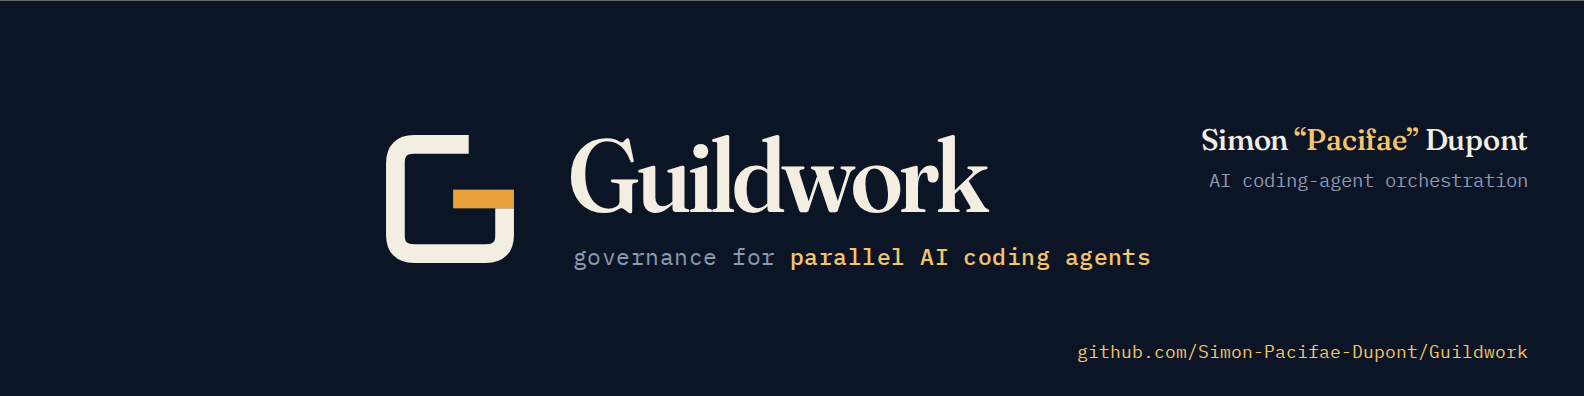
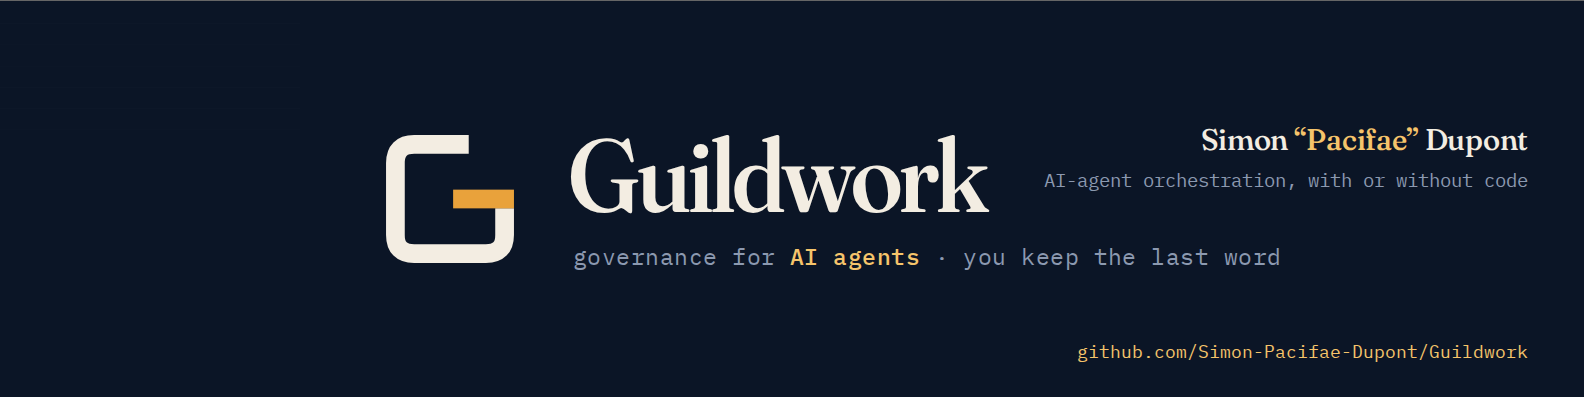
Brand: the baseline puts the human back as the subject

diff --git a/brand/brand-source.html b/brand/brand-source.html
@@ -104,26 +104,26 @@ body { margin: 0; background: #666; font-family: Inter, sans-serif; }
 
 <div id="lockup-dark" class="board lockup dark">
   <svg><use href="#mark"/></svg>
-  <div><p class="word">Guildwork</p><p class="tag">governance for parallel AI coding agents</p></div>
+  <div><p class="word">Guildwork</p><p class="tag">governance for AI agents · you keep the last word</p></div>
 </div>
 <div id="lockup-light" class="board lockup light">
   <svg><use href="#mark-ink"/></svg>
-  <div><p class="word">Guildwork</p><p class="tag">governance for parallel AI coding agents</p></div>
+  <div><p class="word">Guildwork</p><p class="tag">governance for AI agents · you keep the last word</p></div>
 </div>
 <div id="lockup-transparent" class="board lockup transparent">
   <svg><use href="#mark"/></svg>
-  <div><p class="word">Guildwork</p><p class="tag">governance for parallel AI coding agents</p></div>
+  <div><p class="word">Guildwork</p><p class="tag">governance for AI agents · you keep the last word</p></div>
 </div>
 
 <div id="banner-en" class="board banner">
   <svg class="lanes"><use href="#lanes"/></svg>
   <div class="content">
     <svg><use href="#mark"/></svg>
-    <div><p class="word">Guildwork</p><p class="tag">governance for <b>parallel AI coding agents</b></p></div>
+    <div><p class="word">Guildwork</p><p class="tag">governance for <b>AI agents</b> · you keep the last word</p></div>
   </div>
   <div class="side">
     <div class="name">Simon <span>“Pacifae”</span> Dupont</div>
-    <div class="role">AI coding-agent orchestration</div>
+    <div class="role">AI-agent orchestration, with or without code</div>
   </div>
   <div class="foot">github.com/Simon-Pacifae-Dupont/Guildwork</div>
 </div>
@@ -132,11 +132,11 @@ body { margin: 0; background: #666; font-family: Inter, sans-serif; }
   <svg class="lanes"><use href="#lanes"/></svg>
   <div class="content">
     <svg><use href="#mark"/></svg>
-    <div><p class="word">Guildwork</p><p class="tag">gouvernance pour <b>agents IA de code en parallèle</b></p></div>
+    <div><p class="word">Guildwork</p><p class="tag">gouvernance pour <b>agents IA</b> · vous gardez le dernier mot</p></div>
   </div>
   <div class="side">
     <div class="name">Simon <span>“Pacifae”</span> Dupont</div>
-    <div class="role">orchestration d’agents IA de code</div>
+    <div class="role">orchestration d’agents IA, avec ou sans code</div>
   </div>
   <div class="foot">github.com/Simon-Pacifae-Dupont/Guildwork</div>
 </div>

diff --git a/README.md b/README.md
@@ -1,7 +1,7 @@
 <p align="center">
   <picture>
     <source media="(prefers-color-scheme: dark)" srcset="brand/logo-lockup-dark.png">
-    <img alt="Guildwork — governance for parallel AI coding agents" src="brand/logo-lockup-light.png" width="600">
+    <img alt="Guildwork — governance for AI agents, you keep the last word" src="brand/logo-lockup-light.png" width="600">
   </picture>
 </p>
 
